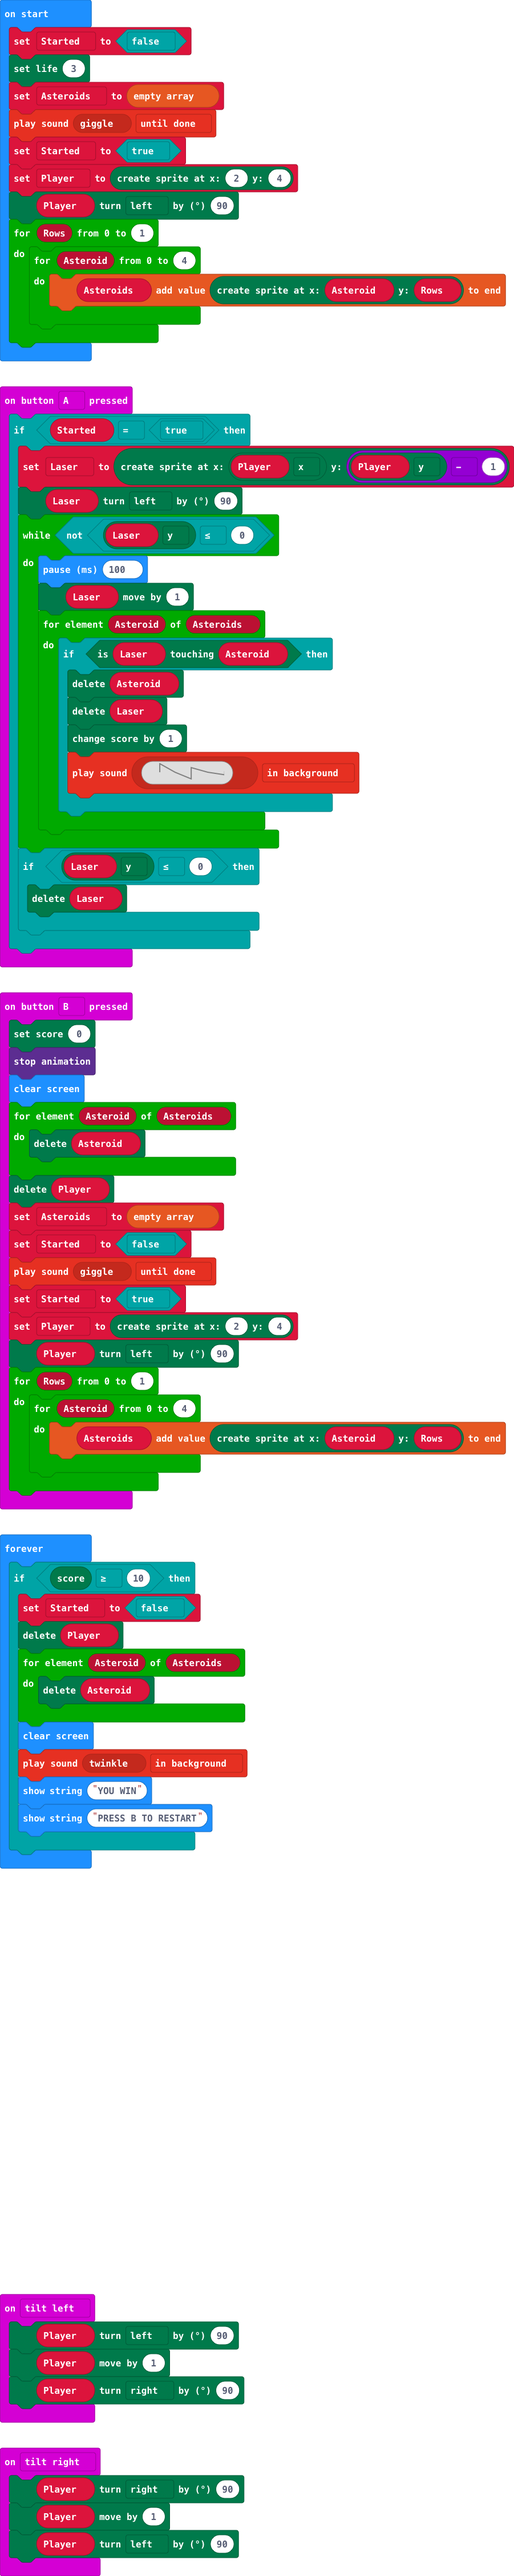
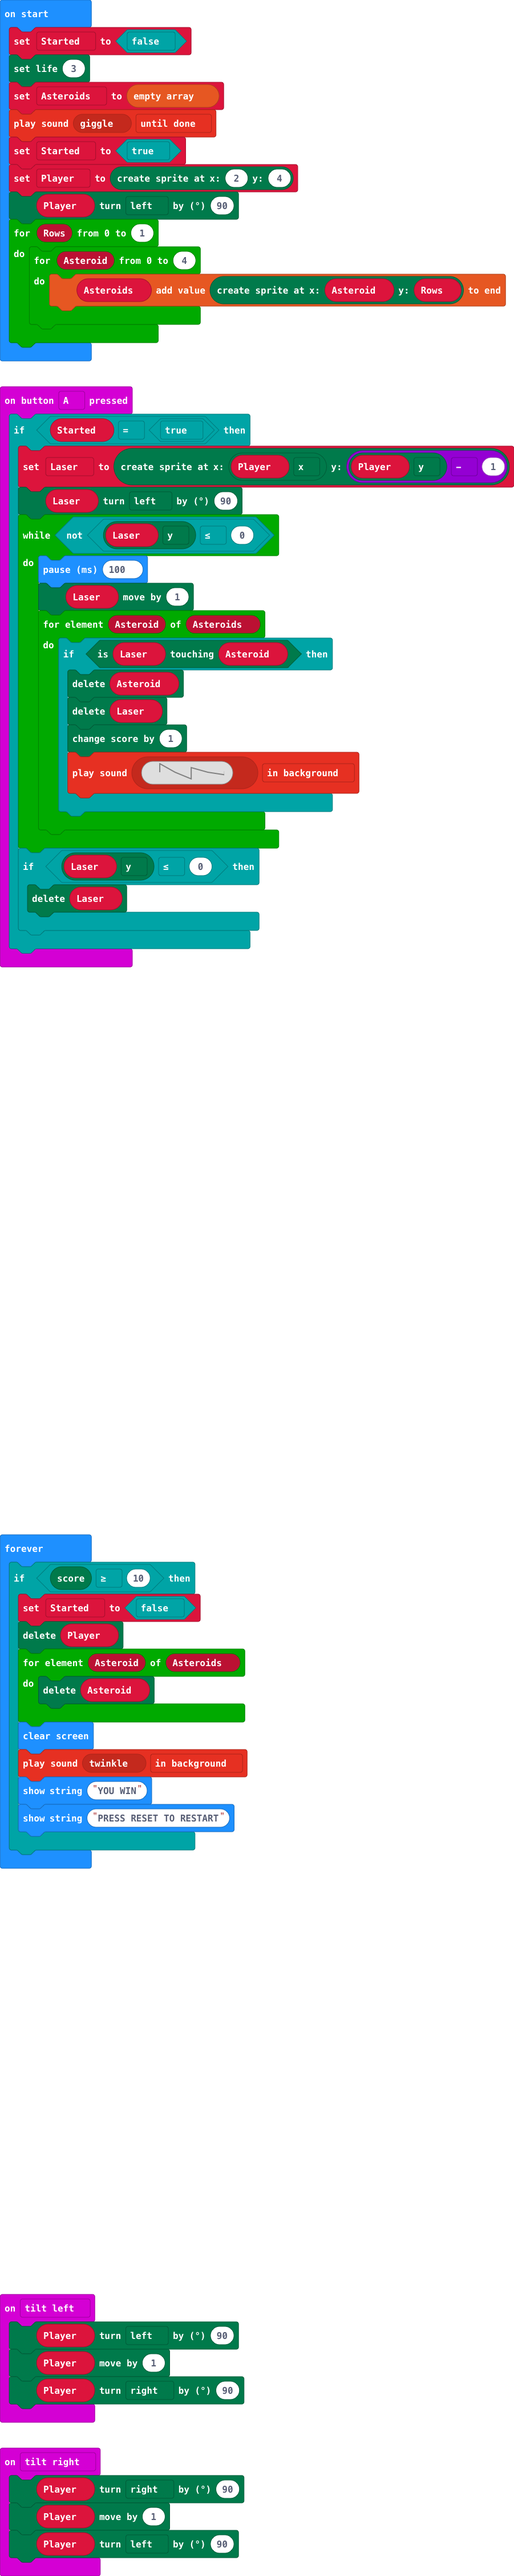
Update main.blocks, main.ts

Changed region(s): [[0.0, 0.3725, 0.9945, 0.5898], [0.404, 0.6829, 0.4661, 0.714]]

diff --git a/main.ts b/main.ts
@@ -24,26 +24,6 @@ input.onGesture(Gesture.TiltLeft, function () {
     Player.move(1)
     Player.turn(Direction.Right, 90)
 })
-input.onButtonPressed(Button.B, function () {
-    game.setScore(0)
-    led.stopAnimation()
-    basic.clearScreen()
-    for (let Asteroid of Asteroids) {
-        Asteroid.delete()
-    }
-    Player.delete()
-    Asteroids = []
-    Started = false
-    music.playSoundEffect(music.builtinSoundEffect(soundExpression.giggle), SoundExpressionPlayMode.UntilDone)
-    Started = true
-    Player = game.createSprite(2, 4)
-    Player.turn(Direction.Left, 90)
-    for (let Rows = 0; Rows <= 1; Rows++) {
-        for (let Asteroid = 0; Asteroid <= 4; Asteroid++) {
-            Asteroids.push(game.createSprite(Asteroid, Rows))
-        }
-    }
-})
 input.onGesture(Gesture.TiltRight, function () {
     Player.turn(Direction.Right, 90)
     Player.move(1)
@@ -75,6 +55,6 @@ basic.forever(function () {
         basic.clearScreen()
         music.playSoundEffect(music.builtinSoundEffect(soundExpression.twinkle), SoundExpressionPlayMode.InBackground)
         basic.showString("YOU WIN")
-        basic.showString("PRESS B TO RESTART")
+        basic.showString("PRESS RESET TO RESTART")
     }
 })
